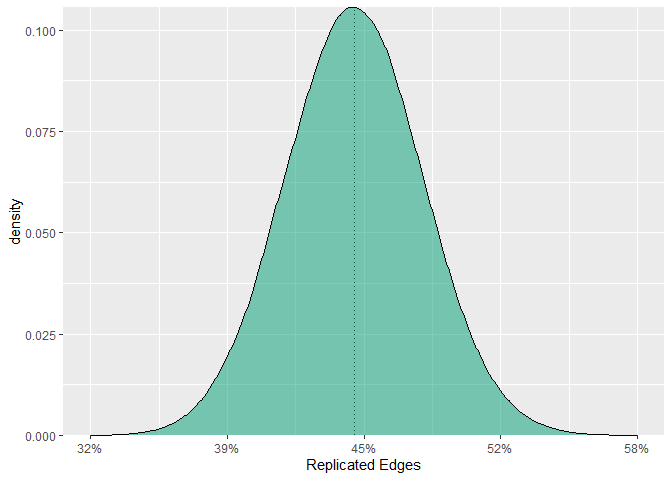
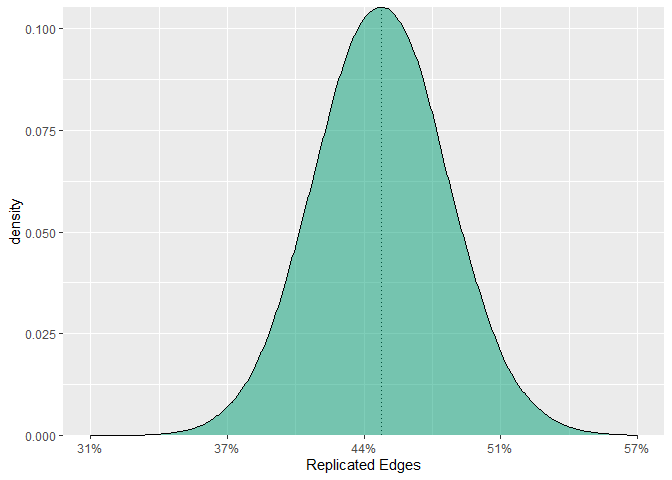
update readme

diff --git a/README.md b/README.md
@@ -119,16 +119,16 @@ fit <- ggm_inference(Y, boot = TRUE,
 
 confint(fit)
 #>              2.5%       97.5%
-#>  [1,] -0.29393261 -0.22809937
-#>  [2,] -0.14511685 -0.08098944
-#>  [3,]  0.25816676  0.32162543
-#>  [4,] -0.04429141  0.03111320
-#>  [5,]  0.12801123  0.20163601
-#>  [6,]  0.13493488  0.20149638
-#>  [7,] -0.06485694  0.01681974
-#>  [8,]  0.09905397  0.17891688
-#>  [9,]  0.35091944  0.41218283
-#> [10,]  0.08726243  0.16528060
+#>  [1,] -0.29164523 -0.22218292
+#>  [2,] -0.14598824 -0.07462415
+#>  [3,]  0.25520702  0.33809121
+#>  [4,] -0.04133586  0.02729732
+#>  [5,]  0.11894282  0.20290177
+#>  [6,]  0.12561123  0.20733942
+#>  [7,] -0.06835273 -0.00105872
+#>  [8,]  0.11029645  0.18203280
+#>  [9,]  0.33705899  0.41407700
+#> [10,]  0.08435243  0.15999298
 ```
 
 These can then be plotted with, say, **ggplot2** (let to the user).
@@ -137,9 +137,9 @@ These can then be plotted with, say, **ggplot2** (let to the user).
 
 When mining data, or performing an automatic search, it is difficult to
 make inference on the network parameters (e.g., confidence are not
-easily computed). To summarize data mining, **GGMnonreg** provide edge
+easily computed). To summarize data mining, **GGMnonreg** provides edge
 inclusion “probabilities” (proportion bootstrap samples for which each
-relation was detected)
+relation was detected).
 
 ``` r
 # data
@@ -147,18 +147,17 @@ Y <- na.omit(bfi[,1:5])
 
 # fit model
 fit <-  eip(Y, method = "spearman", 
-            B  = 100)
-#>   |                                                                              |                                                                      |   0%  |                                                                              |=                                                                     |   1%  |                                                                              |=                                                                     |   2%  |                                                                              |==                                                                    |   3%  |                                                                              |===                                                                   |   4%  |                                                                              |====                                                                  |   5%  |                                                                              |====                                                                  |   6%  |                                                                              |=====                                                                 |   7%  |                                                                              |======                                                                |   8%  |                                                                              |======                                                                |   9%  |                                                                              |=======                                                               |  10%  |                                                                              |========                                                              |  11%  |                                                                              |========                                                              |  12%  |                                                                              |=========                                                             |  13%  |                                                                              |==========                                                            |  14%  |                                                                              |==========                                                            |  15%  |                                                                              |===========                                                           |  16%  |                                                                              |============                                                          |  17%  |                                                                              |=============                                                         |  18%  |                                                                              |=============                                                         |  19%  |                                                                              |==============                                                        |  20%  |                                                                              |===============                                                       |  21%  |                                                                              |===============                                                       |  22%  |                                                                              |================                                                      |  23%  |                                                                              |=================                                                     |  24%  |                                                                              |==================                                                    |  25%  |                                                                              |==================                                                    |  26%  |                                                                              |===================                                                   |  27%  |                                                                              |====================                                                  |  28%  |                                                                              |====================                                                  |  29%  |                                                                              |=====================                                                 |  30%  |                                                                              |======================                                                |  31%  |                                                                              |======================                                                |  32%  |                                                                              |=======================                                               |  33%  |                                                                              |========================                                              |  34%  |                                                                              |========================                                              |  35%  |                                                                              |=========================                                             |  36%  |                                                                              |==========================                                            |  37%  |                                                                              |===========================                                           |  38%  |                                                                              |===========================                                           |  39%  |                                                                              |============================                                          |  40%  |                                                                              |=============================                                         |  41%  |                                                                              |=============================                                         |  42%  |                                                                              |==============================                                        |  43%  |                                                                              |===============================                                       |  44%  |                                                                              |================================                                      |  45%  |                                                                              |================================                                      |  46%  |                                                                              |=================================                                     |  47%  |                                                                              |==================================                                    |  48%  |                                                                              |==================================                                    |  49%  |                                                                              |===================================                                   |  50%  |                                                                              |====================================                                  |  51%  |                                                                              |====================================                                  |  52%  |                                                                              |=====================================                                 |  53%  |                                                                              |======================================                                |  54%  |                                                                              |======================================                                |  55%  |                                                                              |=======================================                               |  56%  |                                                                              |========================================                              |  57%  |                                                                              |=========================================                             |  58%  |                                                                              |=========================================                             |  59%  |                                                                              |==========================================                            |  60%  |                                                                              |===========================================                           |  61%  |                                                                              |===========================================                           |  62%  |                                                                              |============================================                          |  63%  |                                                                              |=============================================                         |  64%  |                                                                              |==============================================                        |  65%  |                                                                              |==============================================                        |  66%  |                                                                              |===============================================                       |  67%  |                                                                              |================================================                      |  68%  |                                                                              |================================================                      |  69%  |                                                                              |=================================================                     |  70%  |                                                                              |==================================================                    |  71%  |                                                                              |==================================================                    |  72%  |                                                                              |===================================================                   |  73%  |                                                                              |====================================================                  |  74%  |                                                                              |====================================================                  |  75%  |                                                                              |=====================================================                 |  76%  |                                                                              |======================================================                |  77%  |                                                                              |=======================================================               |  78%  |                                                                              |=======================================================               |  79%  |                                                                              |========================================================              |  80%  |                                                                              |=========================================================             |  81%  |                                                                              |=========================================================             |  82%  |                                                                              |==========================================================            |  83%  |                                                                              |===========================================================           |  84%  |                                                                              |============================================================          |  85%  |                                                                              |============================================================          |  86%  |                                                                              |=============================================================         |  87%  |                                                                              |==============================================================        |  88%  |                                                                              |==============================================================        |  89%  |                                                                              |===============================================================       |  90%  |                                                                              |================================================================      |  91%  |                                                                              |================================================================      |  92%  |                                                                              |=================================================================     |  93%  |                                                                              |==================================================================    |  94%  |                                                                              |==================================================================    |  95%  |                                                                              |===================================================================   |  96%  |                                                                              |====================================================================  |  97%  |                                                                              |===================================================================== |  98%  |                                                                              |===================================================================== |  99%  |                                                                              |======================================================================| 100%
+            B  = 100, progress = FALSE)
 
 fit
 #>     eip
 #> 1  1.00
 #> 2  1.00
 #> 3  1.00
-#> 4  0.06
+#> 4  0.05
 #> 5  1.00
 #> 6  1.00
-#> 7  0.26
+#> 7  0.41
 #> 8  1.00
 #> 9  1.00
 #> 10 1.00
@@ -288,8 +287,8 @@ cbind.data.frame(
 #> 2       1.000    1.000
 #> 3       1.000    1.000
 #> 4       1.000    1.000
-#> 5       0.900    0.912
-#> 6       0.046    0.052
+#> 5       0.893    0.912
+#> 6       0.048    0.052
 #> 7       0.000    0.000
 #> 8       0.000    0.000
 #> 9       0.000    0.000
@@ -297,7 +296,7 @@ cbind.data.frame(
 
 # average replicability (simulation)
 mean(R / length(index))
-#> [1] 0.4467265
+#> [1] 0.4466239
 
 # average replicability (analytic)
 fit_enr$ave_pwr
